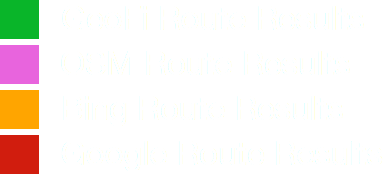
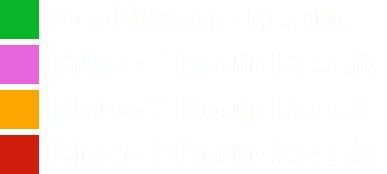
BigCo change
- change names on legend and map for competitors to BigCo + num

diff --git a/map.js b/map.js
@@ -536,7 +536,7 @@ $(document).ready(function() {
                 "layout": {
                     "icon-image": "google-marker",
                     "icon-allow-overlap": true,
-                    "text-field": "Google\n" + calcDist(location.lat, location.lng, currentAddress.lat, currentAddress.lon) + "m",
+                    "text-field": "BigCo 3\n" + calcDist(location.lat, location.lng, currentAddress.lat, currentAddress.lon) + "m",
                     "text-font": ["Open Sans Bold", "Arial Unicode MS Bold"],
                     "text-size": 11,
                     "text-letter-spacing": 0.05,
@@ -631,7 +631,7 @@ $(document).ready(function() {
             "layout": {
                 "icon-image": "open-marker",
                 "icon-allow-overlap": true,
-                "text-field": "OSM\n" + calcDist(location[1], location[0], currentAddress.lat, currentAddress.lon) + "m",
+                "text-field": "BigCo 1\n" + calcDist(location[1], location[0], currentAddress.lat, currentAddress.lon) + "m",
                 "text-font": ["Open Sans Bold", "Arial Unicode MS Bold"],
                 "text-size": 11,
                 "text-letter-spacing": 0.05,
@@ -774,7 +774,7 @@ $(document).ready(function() {
             "layout": {
                 "icon-image": "bing-marker",
                 "icon-allow-overlap": true,
-                "text-field": "Bing\n" + calcDist(coords[0], coords[1], currentAddress.lat, currentAddress.lon) + "m",
+                "text-field": "BigCo 2\n" + calcDist(coords[0], coords[1], currentAddress.lat, currentAddress.lon) + "m",
                 "text-font": ["Open Sans Bold", "Arial Unicode MS Bold"],
                 "text-size": 11,
                 "text-letter-spacing": 0.05,
